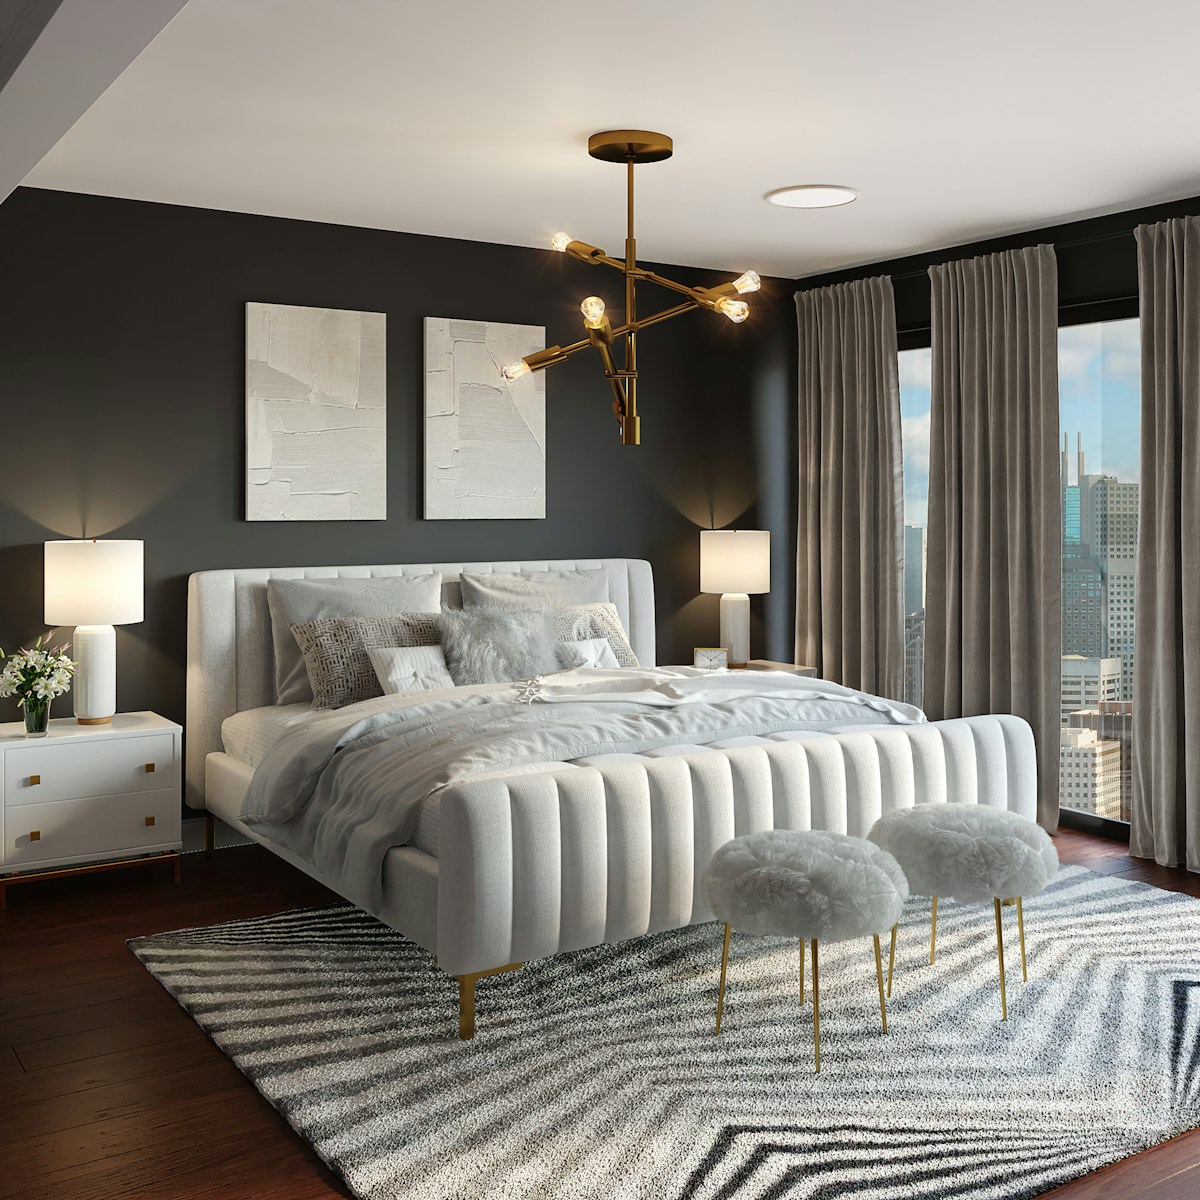
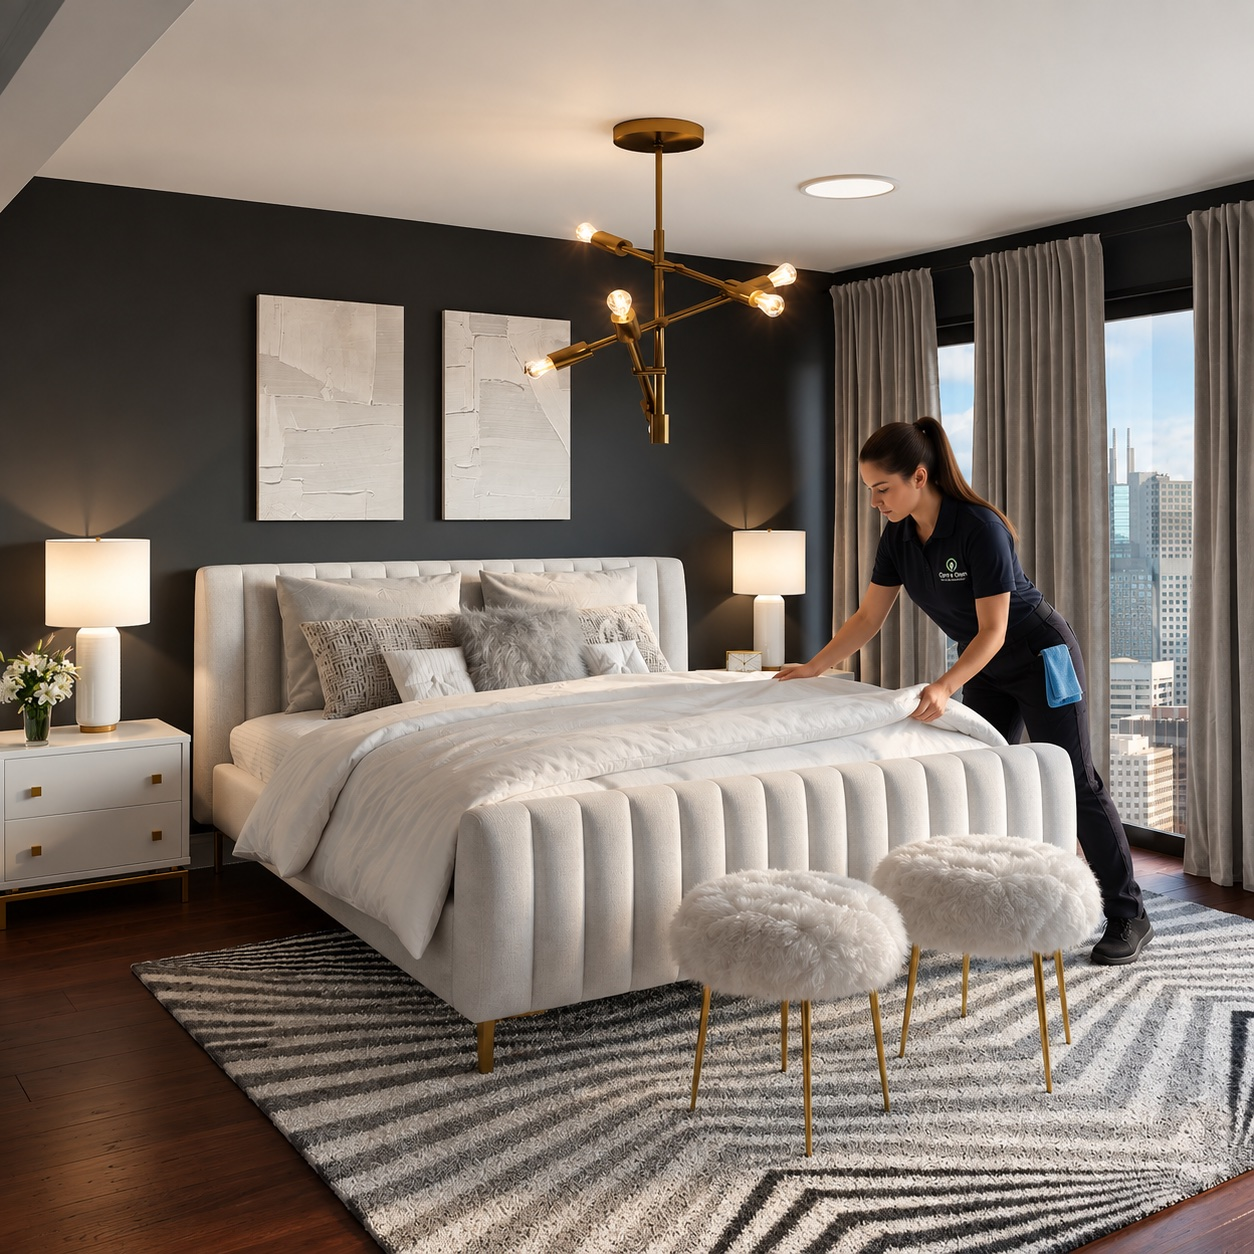
Update commercial and specialty service photos

diff --git a/index.html b/index.html
@@ -72,10 +72,10 @@
       <div class="section-heading reveal"><div><p class="eyebrow">PROFESSIONAL CARE FOR EVERY SPACE.</p><h2 id="services-title">One trusted team.<br>Every kind of <em>clean.</em></h2></div><p>From family homes to polished workplaces,<br class="desktop-break"> tailored care for the way your space is used.</p></div>
       <div class="service-grid">
         <article class="service-card reveal"><div class="service-image-wrap"><img src="assets/service-regular.jpg" alt="A calm, freshly tidied living room with natural textures and a linen sofa" loading="lazy" decoding="async" width="1000" height="750"><span class="service-tag">HOME, BEAUTIFULLY CARED FOR</span><span class="service-number">01</span></div><div class="service-content"><h3>Residential cleaning</h3><p>Consistent, detailed care that keeps your home fresh, comfortable, and ready for real life.</p><span class="service-frequency">Weekly · Biweekly · Monthly · One-time</span><button class="service-link" data-service-details="residential">Explore residential care <span><svg class="icon"><use href="#i-diagonal"/></svg></span></button></div></article>
-        <article class="service-card reveal"><div class="service-image-wrap"><img src="assets/service-commercial.jpg" alt="A bright modern office prepared for a productive workday" loading="lazy" decoding="async" width="1200" height="800"><span class="service-tag">A BETTER PLACE TO WORK</span><span class="service-number">02</span></div><div class="service-content"><h3>Commercial cleaning</h3><p>A polished, dependable clean for offices, studios, shops, and the spaces where your business happens.</p><span class="service-frequency">Recurring · After-hours options · Custom scope</span><button class="service-link" data-service-details="commercial">Explore commercial care <span><svg class="icon"><use href="#i-diagonal"/></svg></span></button></div></article>
+        <article class="service-card reveal"><div class="service-image-wrap"><img src="assets/service-commercial.jpg" alt="A professional cleaning team washing windows and mopping the floor of a modern office" loading="lazy" decoding="async" width="1535" height="1025"><span class="service-tag">A BETTER PLACE TO WORK</span><span class="service-number">02</span></div><div class="service-content"><h3>Commercial cleaning</h3><p>A polished, dependable clean for offices, studios, shops, and the spaces where your business happens.</p><span class="service-frequency">Recurring · After-hours options · Custom scope</span><button class="service-link" data-service-details="commercial">Explore commercial care <span><svg class="icon"><use href="#i-diagonal"/></svg></span></button></div></article>
         <article class="service-card reveal"><div class="service-image-wrap"><img src="assets/service-move.jpg" alt="An airy, carefully cleaned interior ready for a new beginning" loading="lazy" decoding="async" width="1000" height="667"><span class="service-tag">THE NEXT CHAPTER</span><span class="service-number">03</span></div><div class="service-content"><h3>Move-in &amp; move-out</h3><p>A detailed empty-home clean for a confident handover or a beautifully fresh beginning.</p><span class="service-frequency">Apartments · Houses · Empty spaces</span><button class="service-link" data-service-details="move">Explore moving cleans <span><svg class="icon"><use href="#i-diagonal"/></svg></span></button></div></article>
-        <article class="service-card reveal"><div class="service-image-wrap"><img src="assets/service-airbnb.jpg" alt="A serene guest bedroom prepared for the next Airbnb arrival" loading="lazy" decoding="async" width="1200" height="800"><span class="service-tag">FIVE-STAR READY</span><span class="service-number">04</span></div><div class="service-content"><h3>Airbnb cleaning</h3><p>Reliable turnovers with guest-ready details, fresh presentation, and careful attention between stays.</p><span class="service-frequency">Turnovers · Restocking checks · Flexible schedule</span><button class="service-link" data-service-details="airbnb">Explore Airbnb turnovers <span><svg class="icon"><use href="#i-diagonal"/></svg></span></button></div></article>
-        <article class="service-card service-card-wide reveal"><div class="service-image-wrap"><img src="assets/service-carpet.jpg" alt="A warm, refined living space with a freshly cared-for carpet" loading="lazy" decoding="async" width="1200" height="800"><span class="service-tag">SOFTER. FRESHER. RENEWED.</span><span class="service-number">05</span></div><div class="service-content"><h3>Professional carpet care</h3><p>Targeted care for high-traffic areas, everyday soil, and the fibres that make a room feel warm. Scope and treatment are tailored to your carpet.</p><span class="service-frequency">Room-by-room · Stairs · High-traffic areas</span><button class="service-link" data-service-details="carpet">Explore carpet care <span><svg class="icon"><use href="#i-diagonal"/></svg></span></button></div></article>
+        <article class="service-card reveal"><div class="service-image-wrap"><img src="assets/service-airbnb.jpg" alt="A professional cleaner preparing fresh bedding in an elegant guest bedroom" loading="lazy" decoding="async" width="1254" height="1254"><span class="service-tag">FIVE-STAR READY</span><span class="service-number">04</span></div><div class="service-content"><h3>Airbnb cleaning</h3><p>Reliable turnovers with guest-ready details, fresh presentation, and careful attention between stays.</p><span class="service-frequency">Turnovers · Restocking checks · Flexible schedule</span><button class="service-link" data-service-details="airbnb">Explore Airbnb turnovers <span><svg class="icon"><use href="#i-diagonal"/></svg></span></button></div></article>
+        <article class="service-card service-card-wide reveal"><div class="service-image-wrap"><img src="assets/service-carpet.jpg" alt="A professional carpet-care technician deep-cleaning a cream rug in a bright Calgary home" loading="lazy" decoding="async" width="1535" height="1025"><span class="service-tag">SOFTER. FRESHER. RENEWED.</span><span class="service-number">05</span></div><div class="service-content"><h3>Professional carpet care</h3><p>Targeted care for high-traffic areas, everyday soil, and the fibres that make a room feel warm. Scope and treatment are tailored to your carpet.</p><span class="service-frequency">Room-by-room · Stairs · High-traffic areas</span><button class="service-link" data-service-details="carpet">Explore carpet care <span><svg class="icon"><use href="#i-diagonal"/></svg></span></button></div></article>
       </div>
       <p class="services-footnote"><svg class="icon"><use href="#i-plus"/></svg> Need a tailored scope? Start with an estimate, then confirm surfaces, priorities, access, and timing with the team.</p>
     </section>

diff --git a/assets/image-sources.md b/assets/image-sources.md
@@ -9,8 +9,8 @@
 - `service-regular.jpg`: Unsplash source image — `photo-1600210492486-724fe5c67fb0`.
 - `service-deep.jpg`: Unsplash source image — `photo-1556912172-45b7abe8b7e1`.
 - `service-move.jpg`: Unsplash source image — `photo-1600607687920-4e2a09cf159d`.
-- `service-commercial.jpg`: Unsplash source image — `photo-1497366811353-6870744d04b2`.
-- `service-airbnb.jpg`: Unsplash source image — `photo-1616594039964-ae9021a400a0`.
-- `service-carpet.jpg`: Unsplash source image — `photo-1586023492125-27b2c045efd7`.
+- `service-commercial.jpg`: supplied by the site owner as `f58ac96c-2c40-4280-8aed-cba4ee7783cd.png` and optimized to JPEG for the site.
+- `service-airbnb.jpg`: supplied by the site owner as `ChatGPT Image 10 вер. 2026 р., 00_04_47.png` and optimized to JPEG for the site.
+- `service-carpet.jpg`: supplied by the site owner as `f1901006-03f8-4835-8886-6f8673c16b2c.png` and optimized to JPEG for the site.
 
 Unsplash images were downloaded through the Unsplash image CDN for this local site concept. Verify licensing and attribution requirements before commercial launch.
